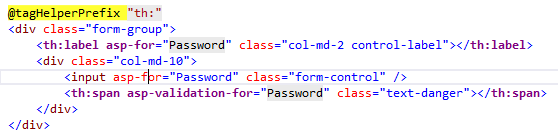
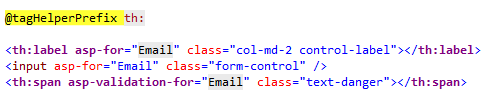
taylor fixes

diff --git a/aspnet/mvc/views/tag-helpers/intro.rst b/aspnet/mvc/views/tag-helpers/intro.rst
@@ -103,24 +103,25 @@ Opting out of individual elements
 
 You can disable a Tag Helper at the element level with the Tag Helper opt-out character ("!"). For example, ``Email`` validation is disabled in the ``<span>`` with the Tag Helper opt-out character:
 
-.. code-block:: html
+.. code-block:: c#
 
 	<!span asp-validation-for="Email" class="text-danger"></!span>
 
 You must apply the Tag Helper opt-out character to the opening and closing tag. (The Visual Studio editor automatically adds the opt-out character to the closing tag when you add one to the opening tag). After you add the opt-out character, the element and Tag Helper attributes are no longer displayed in a distinctive font.
 
 Using ``@tagHelperPrefix`` to make Tag Helper usage explicit
-^^^^^^^^^^^^^^^^^^^^^^^^^^^^^^^^^^^^^^^^^^^^^^^^^^^^^^^^^^^^^^^^^
+^^^^^^^^^^^^^^^^^^^^^^^^^^^^^^^^^^^^^^^^^^^^^^^^^^^^^^^^^^^^^^^^
 
-The ``@tagHelperPrefix`` directive allows you to specify a tag prefix string to enable Tag Helper support and to make Tag Helper usage explicit. In the code below, the Tag Helper prefix is set to ``th:``, so only those elements using the prefix ``th:`` support Tag Helpers (Tag Helper-enabled elements have a distinctive font). The ``<label>`` and ``<span>`` elements have the Tag Helper prefix and are Tag Helper-enabled, while the ``<input>`` element does not.
+The ``@tagHelperPrefix`` directive allows you to specify a tag prefix string to enable Tag Helper support and to make Tag Helper usage explicit. In the code image below, the Tag Helper prefix is set to ``th:``, so only those elements using the prefix ``th:`` support Tag Helpers (Tag Helper-enabled elements have a distinctive font). The ``<label>`` and ``<span>`` elements have the Tag Helper prefix and are Tag Helper-enabled, while the ``<input>`` element does not.
+
+.. image:: intro/_static/thp.png 
+
+:Note: Quotes are optional with the ``@tagHelperPrefix`` directive. The following two directives are equivalent:
 
 .. code-block:: html
 
    @tagHelperPrefix th:
-   
-   <th:label asp-for="Email" class="col-md-2 control-label"></th:label>
-   <input asp-for="Email" class="form-control" />
-   <th:span asp-validation-for="Email" class="text-danger"></th:span>
+   @tagHelperPrefix "th:"
 
 The same hierarchy rules that apply to ``@addTagHelper`` also apply to ``@tagHelperPrefix``.
 
